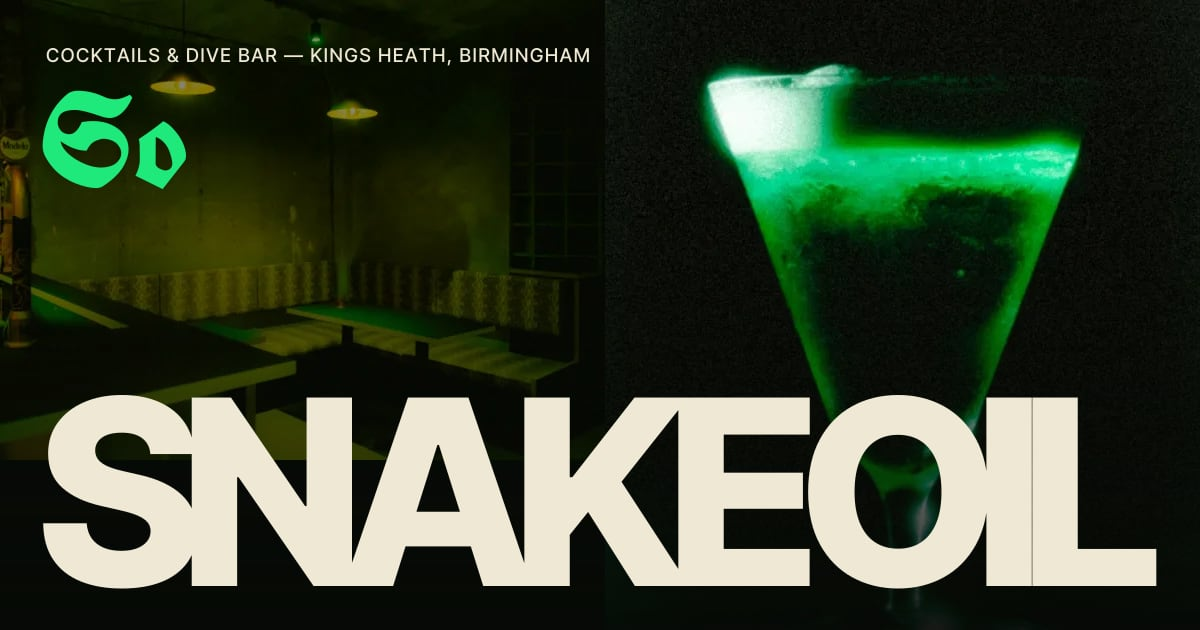
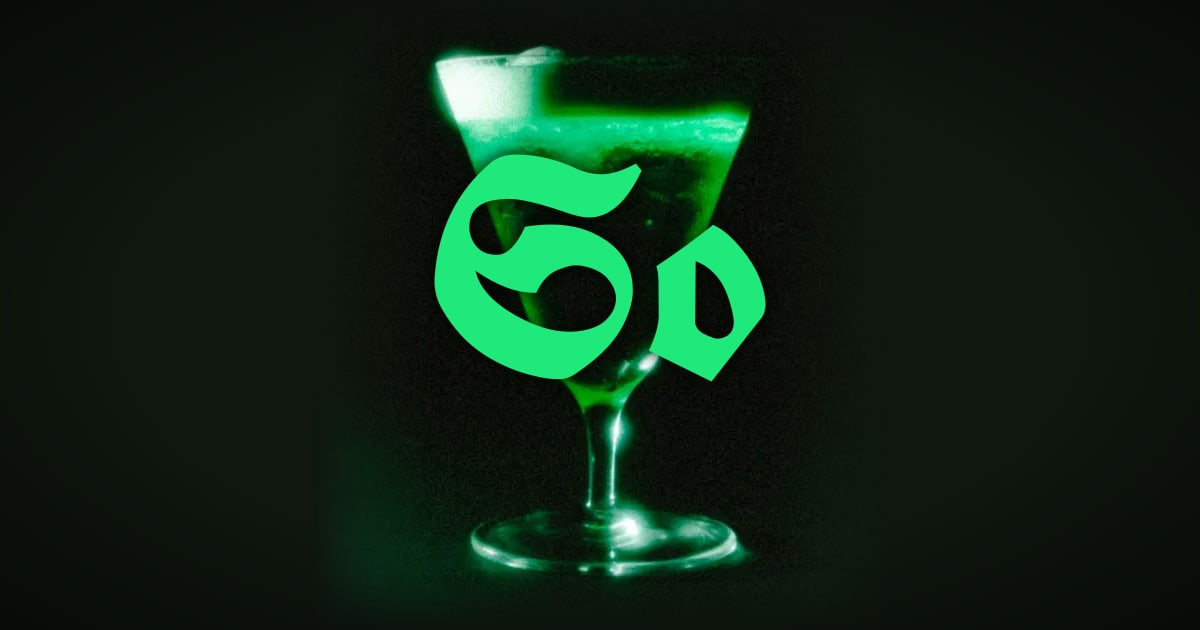
Replace link preview with green So mark over the hero glass
The old share image (interior + glass + SNAKEOIL wordmark) felt busy in
WhatsApp/iMessage previews. The new og.jpg is just the hero fizz glass
centred on black with the So monogram in --venom green over the bowl.

- Move the OG build into scripts/build-og.mjs (npm run assets:og);
  assets:images still calls it.
- Bump og:image to og.jpg?v=2 so link-preview caches refetch it.
- Update og:image:alt and the README.

diff --git a/index.html b/index.html
@@ -14,10 +14,10 @@
     <meta property="og:title" content="Snake Oil | Cocktail Bar in Kings Heath, Birmingham" />
     <meta property="og:description" content="House cocktails, Modelo on tap and good music at Snake Oil, a cocktail bar tucked behind Kings Heath High Street, Birmingham. Walk-ins only." />
     <meta property="og:url" content="https://snakeoilbhx.co.uk/" />
-    <meta property="og:image" content="https://snakeoilbhx.co.uk/og.jpg" />
+    <meta property="og:image" content="https://snakeoilbhx.co.uk/og.jpg?v=2" />
     <meta property="og:image:width" content="1200" />
     <meta property="og:image:height" content="630" />
-    <meta property="og:image:alt" content="A green-lit cocktail glass beside the Snakeoil bar interior, with the word Snakeoil across the bottom." />
+    <meta property="og:image:alt" content="A glowing green cocktail on black, with the Snake Oil So monogram over the glass." />
     <meta property="og:locale" content="en_GB" />
     <meta name="twitter:card" content="summary_large_image" />
 

diff --git a/README.md b/README.md
@@ -26,7 +26,8 @@ The optimised media is included in `public/`, so you only need these commands if
 
 | Command | What it does |
 | --- | --- |
-| `npm run assets:images` | `images/` → AVIF + WebP at 480/800/1200/1440w, the green duotone for the B&W booth shot, preloader frames, grain tile, favicons, `og.jpg`, and `src/media-manifest.json` (sizes and placeholder colours). |
+| `npm run assets:og` | Rebuilds only the link-preview image `public/og.jpg`: the hero glass centred on black with the So mark over it. |
+| `npm run assets:images` | `images/` → AVIF + WebP at 480/800/1200/1440w, the green duotone for the B&W booth shot, preloader frames, grain tile, favicons, `og.jpg` (via `scripts/build-og.mjs`), and `src/media-manifest.json` (sizes and placeholder colours). |
 | `npm run assets:video` | Real photos → three looping clips (`hero-glass`, `room-haze`, `lineup-haze`). Procedural motion only: breathing zoom, Perlin haze, liquid shimmer, lamp flicker. **Not AI.** |
 | `npm run assets:ai-video` | AI originals in `assets-src/ai/` → seamless loops (`ai-smoke`, `ai-smoke-tall`, `ai-condensation`, `ai-ruby`, `ai-beer`, `ai-hover-slick`, `ai-hover-redflag`). |
 
